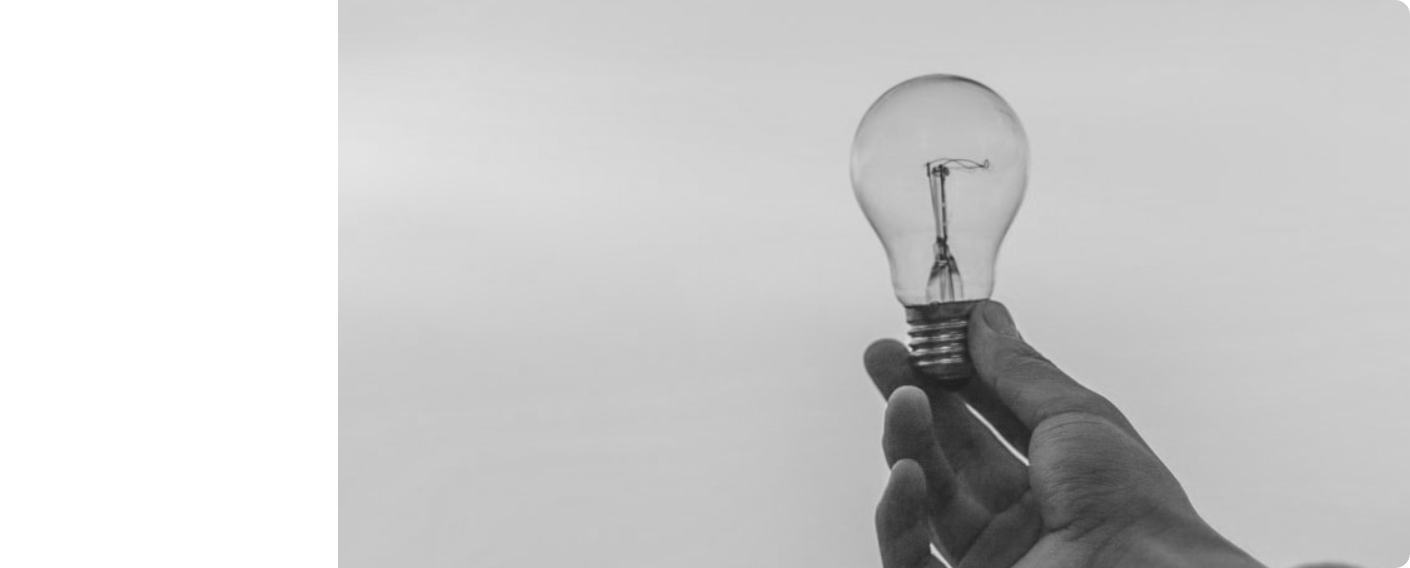
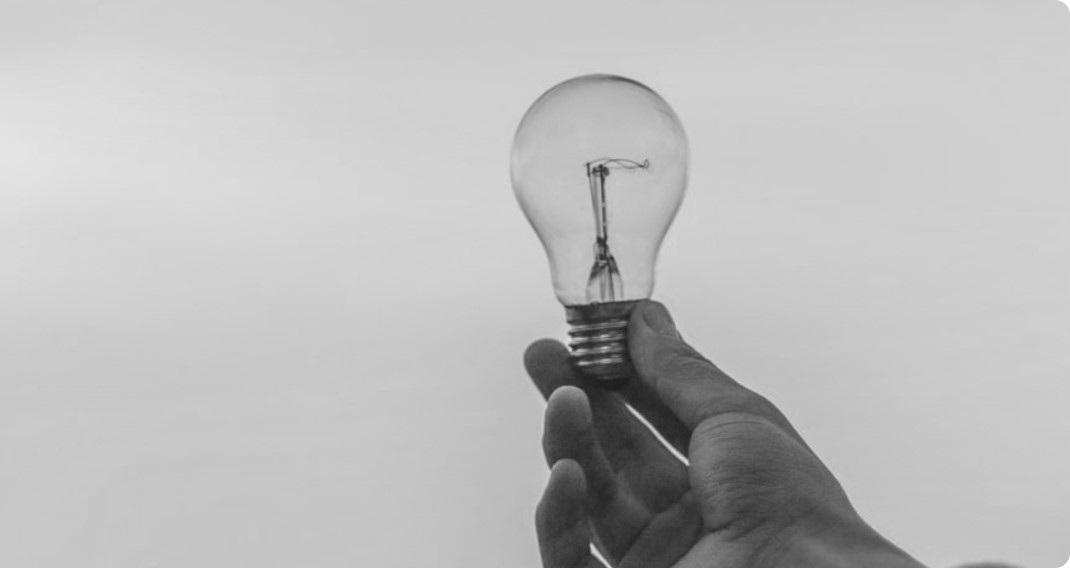
fixed errors in all sections

diff --git a/scss/style.css b/scss/style.css
@@ -56,7 +56,7 @@ p {
 .container {
   width: 1300px;
   margin: 0 auto;
-  padding: 4rem 0;
+  padding: 80px 0;
 }
 
 .cf::after {
@@ -494,6 +494,10 @@ section#topics div.container div.quickLinks div.links div.circle3 {
   background-color: var(--violet-dark);
 }
 
+section#topics div.container div.quickLinks div.links div.circle3 img {
+  width: 49px;
+}
+
 section#topics div.container div.quickLinks div.links div.circle4 {
   background-color: var(--blue-light);
 }
@@ -504,6 +508,11 @@ section#topics div.container div.quickLinks div.links div.circle5 {
 
 section#topics div.container div.quickLinks div.links div.circle6 {
   background-color: var(--pink);
+  margin-left: 1rem;
+}
+
+section#topics div.container div.quickLinks div.links div.circle6 img {
+  width: 38px;
 }
 
 section#topics div.container div.quickLinks div.links div.circle7 {
@@ -512,6 +521,10 @@ section#topics div.container div.quickLinks div.links div.circle7 {
 
 section#topics div.container div.quickLinks div.links div.circle8 {
   background-color: var(--violet);
+}
+
+section#topics div.container div.quickLinks div.links div.circle8 img {
+  width: 38px;
 }
 
 section#topics div.container div.quickLinks div.links div.text {
@@ -644,6 +657,10 @@ section#topics div.container:nth-of-type(2) div.topPics div.pics article .layerC
   background-color: var(--pink);
 }
 
+section#topics div.container:nth-of-type(2) div.topPics div.pics article .layerColor2 img {
+  width: 12px;
+}
+
 section#topics div.container:nth-of-type(2) div.topPics div.pics article .layerColor3 {
   background-color: var(--blue-dark);
 }
@@ -717,6 +734,11 @@ section#initiatives .container .imageContent article {
 
 section#initiatives .container .imageContent article img {
   width: 400px;
+  border-radius: 15px;
+  -webkit-border-radius: 15px;
+  -moz-border-radius: 15px;
+  -ms-border-radius: 15px;
+  -o-border-radius: 15px;
 }
 
 section#initiatives .container .imageContent article h3 {
@@ -730,20 +752,26 @@ section#initiatives .container .imageContent article a:link, section#initiatives
   font-weight: 600;
 }
 
+section#sponsored {
+  padding: 80px 0rem;
+}
+
 section#sponsored div.pedroMiranda {
   width: 1300px;
   height: 568px;
-  background: url("../src/pedro-miranda1.jpg") center/cover;
+  background: url("../src/pedro-miranda1.jpg");
+  background-position: 50% 50%;
+  background-size: cover;
   background-repeat: no-repeat;
-  z-index: 2000;
+  position: relative;
 }
 
 section#sponsored div.pedroMiranda .alfaCover {
   width: 1300px;
   height: 568px;
-  background-image: -webkit-gradient(linear, right top, left top, from(var(--blue-light)), to(var(--blue)));
-  background-image: linear-gradient(270deg, var(--blue-light), var(--blue));
-  opacity: 0.66;
+  background-image: -webkit-gradient(linear, left top, right top, from(#56bdfd), to(rgba(86, 189, 253, 0.3)));
+  background-image: linear-gradient(90deg, #56bdfd, rgba(86, 189, 253, 0.3));
+  z-index: 2000;
 }
 
 section#sponsored div.pedroMiranda .alfaCover .headingh2 {
@@ -890,6 +918,10 @@ section#testimonials .container div.topPics div.pics article .layerColor1 {
 
 section#testimonials .container div.topPics div.pics article .layerColor2 {
   background-color: var(--pink);
+}
+
+section#testimonials .container div.topPics div.pics article .layerColor2 img {
+  width: 12px;
 }
 
 section#testimonials .container div.topPics div.pics article .layerColor3 {

diff --git a/index.html b/index.html
@@ -188,7 +188,7 @@
                  <article>
                      <img src="./src/photo2.jpg" alt="no image">
                      <div class="layerColor layerColor2">
-                        <img src="./src/video.png" alt="no image">
+                        <img src="./src/microphone.png" alt="no image">
                         <p>Podcast</p>
                     </div> <!-- end layerColor2-->
                     <h3>Project X</h3>
@@ -198,7 +198,7 @@
                  <article>
                      <img src="./src/photo3.jpg" alt="no image">
                      <div class="layerColor layerColor3">
-                        <img src="./src/video.png" alt="no image">
+                        <img src="./src/edit.png" alt="no image">
                         <p>Artikel</p>
                     </div> <!-- end layerColor3-->
                     <h3>Digital camp Y</h3>
@@ -208,7 +208,7 @@
                  <article>
                    <img src="./src//photo4.jpg" alt="no image">
                    <div class="layerColor layerColor4">
-                       <img src="./src/video.png" alt="no image">
+                       <img src="./src/edit.png" alt="no image">
                        <p>Artikel</p>
                    </div> <!-- end layerColor4-->
                    <h3>Digital tool Z</h3>
@@ -283,7 +283,7 @@
              <article>
                  <img src="./src/photo5.jpg" alt="no image">
                  <div class="layerColor layerColor2">
-                    <img src="./src/video.png" alt="no image">
+                    <img src="./src/microphone.png" alt="no image">
                     <p>Podcast</p>
                 </div> <!-- end layerColor2-->
                 <h3 class="two">Hack Your Future</h3>
@@ -293,7 +293,7 @@
              <article>
                  <img src="./src/photo2.jpg" alt="no image">
                  <div class="layerColor layerColor3">
-                    <img src="./src/video.png" alt="no image">
+                    <img src="./src/edit.png" alt="no image">
                     <p>Artikel</p>
                 </div> <!-- end layerColor3-->
                 <h3 class="three">Digital Change for SME’s</h3>
@@ -303,7 +303,7 @@
              <article>
                <img src="./src//photo6.jpg" alt="no image">
                <div class="layerColor layerColor4">
-                   <img src="./src/video.png" alt="no image">
+                   <img src="./src/edit.png" alt="no image">
                    <p>Artikel</p>
                </div> <!-- end layerColor4-->
                <h3 class="four">BeCode Belgium</h3>

diff --git a/scss/style.scss b/scss/style.scss
@@ -226,6 +226,9 @@ section#topics {
         }
         div.circle3 {
           background-color: var(--violet-dark);
+          img {
+            width: 49px;
+          }
         }
         div.circle4 {
           background-color: var(--blue-light);
@@ -235,12 +238,19 @@ section#topics {
         }
         div.circle6 {
           background-color: var(--pink);
+          margin-left: 1rem;
+          img {
+            width: 38px;
+          }
         }
         div.circle7 {
           background-color: var(--blue-dark);
         }
         div.circle8 {
           background-color: var(--violet);
+          img {
+            width: 38px;
+          }
         }
         div.text {
           box-sizing: border-box;
@@ -331,6 +341,9 @@ section#topics {
           }
           .layerColor2 {
             background-color: var(--pink);
+            img {
+              width: 12px;
+            }
           }
           .layerColor3 {
             background-color: var(--blue-dark);
@@ -370,7 +383,12 @@ section#initiatives {
        article {
          img {
           width: 400px;
-         }
+          border-radius: 15px;
+          -webkit-border-radius: 15px;
+          -moz-border-radius: 15px;
+          -ms-border-radius: 15px;
+          -o-border-radius: 15px;
+}
          h3 {
           margin-top: 30px;
           margin-bottom: 1rem;
@@ -424,11 +442,12 @@ section#initiatives {
        }
        width: 1300px;
        height: 568px;
-       background-image: linear-gradient(270deg, var(--blue-light),var(--blue));
-       opacity: 0.66;
+       background-image: linear-gradient(90deg, rgba(86,189, 253, 1.0),rgba(86,189, 253, 0.3));
+       z-index: 2000;
     }
      @include perdoMiranda1;
   }
+  padding: 80px 0rem;
 }
 //======= TEWSTIMONIALS ======
 section#testimonials {
@@ -483,6 +502,9 @@ section#testimonials {
           }
           .layerColor2 {
             background-color: var(--pink);
+            img {
+              width: 12px;
+            }
           }
           .layerColor3 {
             background-color: var(--blue-dark);

diff --git a/scss/partials/variables.scss b/scss/partials/variables.scss
@@ -92,9 +92,11 @@
 @mixin perdoMiranda1 {
   width: 1300px;
   height: 568px;
-  background: url("../src/pedro-miranda1.jpg")  center/cover;
+  background: url("../src/pedro-miranda1.jpg");
+  background-position:  50% 50%;
+  background-size: cover;
   background-repeat: no-repeat;
-  z-index: 2000;
+  position: relative;
 }
 @mixin jonneMakikyro {
   width: 1300px;

diff --git a/scss/partials/typography.css b/scss/partials/typography.css
@@ -56,7 +56,7 @@ p {
 .container {
   width: 1300px;
   margin: 0 auto;
-  padding: 4rem 0;
+  padding: 80px 0;
 }
 
 .cf::after {

diff --git a/scss/partials/typography.scss b/scss/partials/typography.scss
@@ -56,7 +56,7 @@ p {
 .container {
   width: 1300px;
   margin: 0 auto;
-  padding: 4rem 0;
+  padding: 80px 0;
 }
 
 .cf {
